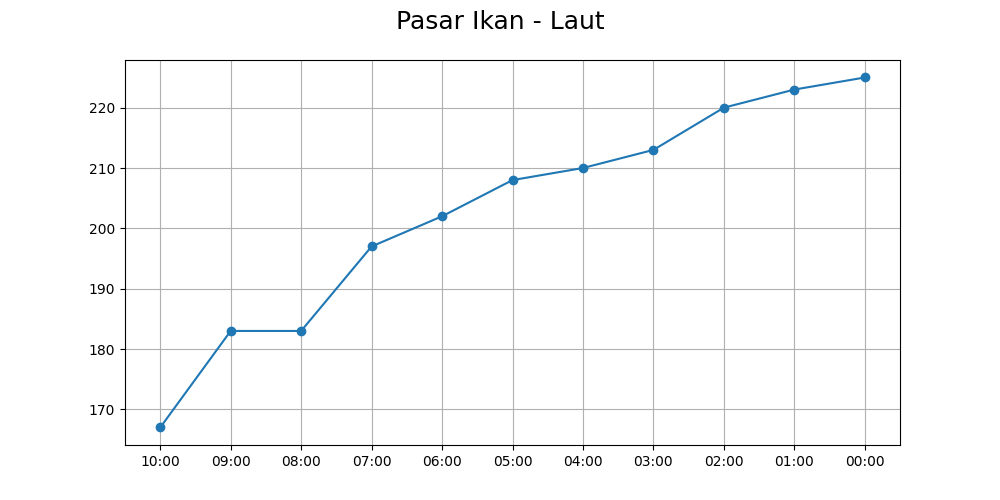
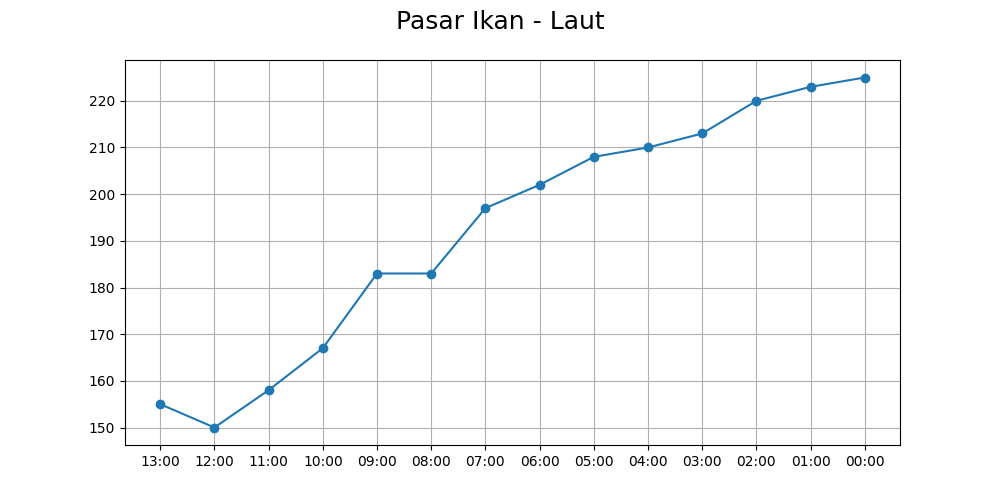
Error in 3 or more syllables floodgate name

diff --git a/floodgate_data.html b/floodgate_data.html
@@ -7,6 +7,12 @@
 <tr>
 <td>Pintu Air</td>
 <td style="text-align: center;">
+                                                                    13:00</td>
+<td style="text-align: center;">
+                                                                    12:00</td>
+<td style="text-align: center;">
+                                                                    11:00</td>
+<td style="text-align: center;">
                                                                     10:00</td>
 <td style="text-align: center;">
                                                                     09:00</td>
@@ -34,6 +40,15 @@
 <tbody>
 <tr>
 <td>Bendung Katulampa</td>
+<td class="siaga4" style="text-align: center;">
+                                                                            20 cm (T)
+                                                                        </td>
+<td class="siaga4" style="text-align: center;">
+                                                                            20 cm (T)
+                                                                        </td>
+<td class="siaga4" style="text-align: center;">
+                                                                            20 cm (T)
+                                                                        </td>
 <td class="siaga4" style="text-align: center;">
                                                                             20 cm (T)
                                                                         </td>
@@ -87,6 +102,15 @@
                                                                             95 cm (T)
                                                                         </td>
 <td class="siaga4" style="text-align: center;">
+                                                                            95 cm (T)
+                                                                        </td>
+<td class="siaga4" style="text-align: center;">
+                                                                            95 cm (T)
+                                                                        </td>
+<td class="siaga4" style="text-align: center;">
+                                                                            95 cm (T)
+                                                                        </td>
+<td class="siaga4" style="text-align: center;">
                                                                             95 cm (MT)
                                                                         </td>
 <td class="siaga4" style="text-align: center;">
@@ -108,6 +132,15 @@
 </tr>
 <tr>
 <td>Manggarai BKB</td>
+<td class="siaga4" style="text-align: center;">
+                                                                            600 cm (M)
+                                                                        </td>
+<td class="siaga4" style="text-align: center;">
+                                                                            600 cm (T)
+                                                                        </td>
+<td class="siaga4" style="text-align: center;">
+                                                                            600 cm (T)
+                                                                        </td>
 <td class="siaga4" style="text-align: center;">
                                                                             600 cm (T)
                                                                         </td>
@@ -145,6 +178,15 @@
 </tr>
 <tr>
 <td>PA. Karet</td>
+<td class="siaga4" style="text-align: center;">
+                                                                            250 cm (T)
+                                                                        </td>
+<td class="siaga4" style="text-align: center;">
+                                                                            250 cm (T)
+                                                                        </td>
+<td class="siaga4" style="text-align: center;">
+                                                                            250 cm (T)
+                                                                        </td>
 <td class="siaga4" style="text-align: center;">
                                                                             250 cm (T)
                                                                         </td>
@@ -195,6 +237,15 @@
                                                                             40 cm (T)
                                                                         </td>
 <td class="siaga4" style="text-align: center;">
+                                                                            40 cm (T)
+                                                                        </td>
+<td class="siaga4" style="text-align: center;">
+                                                                            40 cm (T)
+                                                                        </td>
+<td class="siaga4" style="text-align: center;">
+                                                                            40 cm (T)
+                                                                        </td>
+<td class="siaga4" style="text-align: center;">
                                                                             40 cm (MT)
                                                                         </td>
 <td class="siaga4" style="text-align: center;">
@@ -219,6 +270,15 @@
 </tr>
 <tr>
 <td>Pos Pesanggrahan</td>
+<td class="siaga4" style="text-align: center;">
+                                                                            70 cm (T)
+                                                                        </td>
+<td class="siaga4" style="text-align: center;">
+                                                                            70 cm (T)
+                                                                        </td>
+<td class="siaga4" style="text-align: center;">
+                                                                            70 cm (T)
+                                                                        </td>
 <td class="siaga4" style="text-align: center;">
                                                                             70 cm (T)
                                                                         </td>
@@ -257,6 +317,15 @@
 <tr>
 <td>Pos Angke Hulu</td>
 <td class="siaga4" style="text-align: center;">
+                                                                            45 cm (T)
+                                                                        </td>
+<td class="siaga4" style="text-align: center;">
+                                                                            45 cm (T)
+                                                                        </td>
+<td class="siaga4" style="text-align: center;">
+                                                                            50 cm (T)
+                                                                        </td>
+<td class="siaga4" style="text-align: center;">
                                                                             50 cm (T)
                                                                         </td>
 <td class="siaga4" style="text-align: center;">
@@ -294,6 +363,15 @@
 <tr>
 <td>Waduk Pluit</td>
 <td class="siaga4" style="text-align: center;">
+                                                                            -185 cm (T)
+                                                                        </td>
+<td class="siaga4" style="text-align: center;">
+                                                                            -185 cm (T)
+                                                                        </td>
+<td class="siaga4" style="text-align: center;">
+                                                                            -185 cm (T)
+                                                                        </td>
+<td class="siaga4" style="text-align: center;">
                                                                             -190 cm (MT)
                                                                         </td>
 <td class="siaga4" style="text-align: center;">
@@ -330,6 +408,15 @@
 </tr>
 <tr>
 <td>Pasar Ikan - Laut</td>
+<td class="siaga4" style="text-align: center;">
+                                                                            155 cm (T)
+                                                                        </td>
+<td class="siaga4" style="text-align: center;">
+                                                                            150 cm (T)
+                                                                        </td>
+<td class="siaga4" style="text-align: center;">
+                                                                            158 cm (T)
+                                                                        </td>
 <td class="siaga4" style="text-align: center;">
                                                                             167 cm (T)
                                                                         </td>
@@ -400,10 +487,28 @@
 <td class="siaga4" style="text-align: center;">
                                                                             80 cm (T)
                                                                         </td>
+<td class="siaga4" style="text-align: center;">
+                                                                            80 cm (T)
+                                                                        </td>
+<td class="siaga4" style="text-align: center;">
+                                                                            80 cm (T)
+                                                                        </td>
+<td class="siaga4" style="text-align: center;">
+                                                                            80 cm (T)
+                                                                        </td>
 <td> </td>
 </tr>
 <tr>
 <td>Pos Sunter Hulu</td>
+<td class="siaga4" style="text-align: center;">
+                                                                            90 cm (T)
+                                                                        </td>
+<td class="siaga4" style="text-align: center;">
+                                                                            90 cm (T)
+                                                                        </td>
+<td class="siaga4" style="text-align: center;">
+                                                                            90 cm (T)
+                                                                        </td>
 <td class="siaga4" style="text-align: center;">
                                                                             90 cm (T)
                                                                         </td>
@@ -441,6 +546,15 @@
 </tr>
 <tr>
 <td>Pulo Gadung</td>
+<td class="siaga4" style="text-align: center;">
+                                                                            330 cm (T)
+                                                                        </td>
+<td class="siaga4" style="text-align: center;">
+                                                                            330 cm (T)
+                                                                        </td>
+<td class="siaga4" style="text-align: center;">
+                                                                            330 cm (T)
+                                                                        </td>
 <td class="siaga4" style="text-align: center;">
                                                                             330 cm (T)
                                                                         </td>

diff --git a/templates/index.html b/templates/index.html
@@ -3,14 +3,14 @@
 <head>
     <meta charset="UTF-8">
     <meta name="viewport" content="width=device-width, initial-scale=1.0">
-    <link rel="stylesheet" href="./style.css">
+    <link rel="stylesheet" href="{{ url_for('static',filename='styles/style.css') }}">
     <title>Document</title>
 </head>
 <body>
     <div class="navbar">
         <!-- Konten navbar seperti tampilan waktu, login, tautan sign up -->
     </div>
-    <div class="dashboard">
+    <div class="dashboard" data-graph-url="{{ url_for('static', filename='graph') }}">
         <div class="upper-half">
             <div id="map" class="map">Map will be here</div>
             <div id="pin-details" class="detail">Details of the pin points</div>
@@ -21,8 +21,8 @@
                 <select id="pintu-air" onchange="updatePintuAir">
                     <option value="Bendung Katulampa">Bendung Katulampa</option>
                     <option value="Pos Depok">Pos Depok</option>
-                    <option value="PA Karet">PA Karet</option>
-                    <option value="Mangarai BKB">Mangarai BKB</option>
+                    <option value="PA. Karet">PA Karet</option>
+                    <option value="Manggarai BKB">Mangarai BKB</option>
                     <option value="Pasar Ikan - Laut">Pasar Ikan - Laut</option>
                     <option value="Pos Angke Hulu">Pos Angke Hulu</option>
                     <option value="Pos Cipinang Hulu">Pos Cipinang Hulu</option>
@@ -66,6 +66,6 @@
         </div>
     </div>
     <script src="https://cdn.jsdelivr.net/npm/axios/dist/axios.min.js"></script>
-    <script src="./script.js"></script>
+    <script src="{{ url_for('static',filename='script.js') }}"> </script>
 </body>
 </html>

diff --git a/static/script.js b/static/script.js
@@ -1,0 +1,16 @@
+document.addEventListener("DOMContentLoaded", function() {
+    // Function to update the graph image based on selected pintu_air
+    window.updatePintuAir = function() {
+        const pintuAir = document.getElementById("pintu-air").value;
+        const baseUrl = document.querySelector('.dashboard').getAttribute('data-graph-url');
+        const graphPath = `${baseUrl}/${pintuAir.replace(' ', '_')}.png`;
+
+        // Update the graph image
+        const floodgateGraph = document.getElementById('floodgate-graph');
+        floodgateGraph.src = graphPath;
+        floodgateGraph.alt = `Graph for ${pintuAir}`;
+    };
+
+    // Attach event listener to the select element
+    document.getElementById("pintu-air").addEventListener("change", updatePintuAir);
+});

diff --git a/app.py b/app.py
@@ -5,11 +5,12 @@ import threading
 import os
 import pandas as pd
 import matplotlib.pyplot as plt
+import urllib.parse
 from scrapper import scrape_floodgate_data  # Sesuaikan nama file jika berbeda
 
 app= Flask(__name__)
 #default floodgate_value
-floodgate=[ "Bendung Katulampa","Pos Depok","PA Karet","Mangarai BKB","Pasar Ikan - Laut","Pos Angke Hulu","Pos Cipinang Hulu","Pos Krukut Hulu","Pos Pesanggrahan","Pos Sunter Hulu","Pulo Gadung","Waduk Pluit"]
+floodgate=[ "Bendung Katulampa","Pos Depok","PA. Karet","Manggarai BKB","Pasar Ikan - Laut","Pos Angke Hulu","Pos Cipinang Hulu","Pos Krukut Hulu","Pos Pesanggrahan","Pos Sunter Hulu","Pulo Gadung","Waduk Pluit"]
 @app.route('/')
 def index():
     #graph
@@ -49,6 +50,7 @@ def create_graph():
             dir='.\graph'
             os.makedirs(dir, exist_ok=True)
             gpath=os.path.join(dir,f"{item.replace(' ','_')}.png")
+            gpath=urllib.parse.unquote(gpath)
             plt.savefig(gpath, format='png')
             plt.close()
     return None
